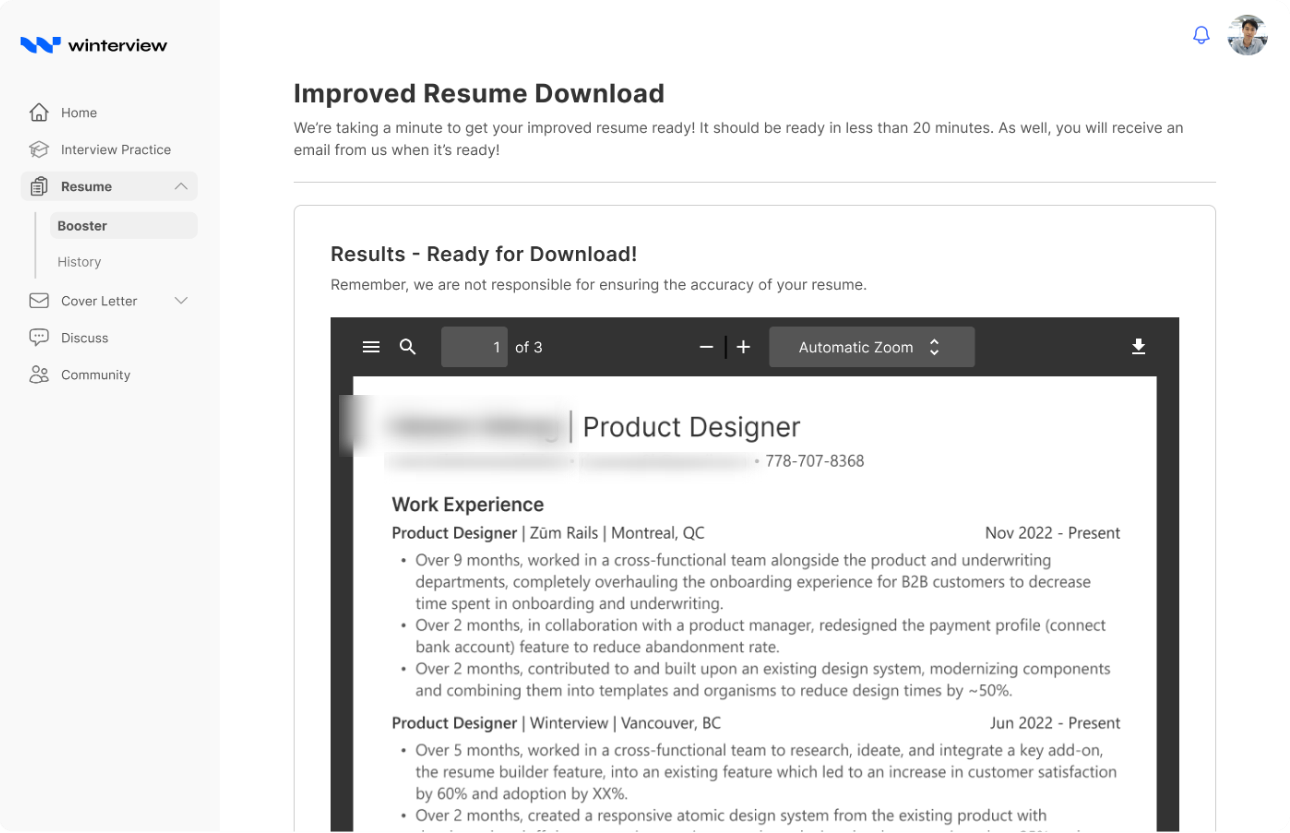
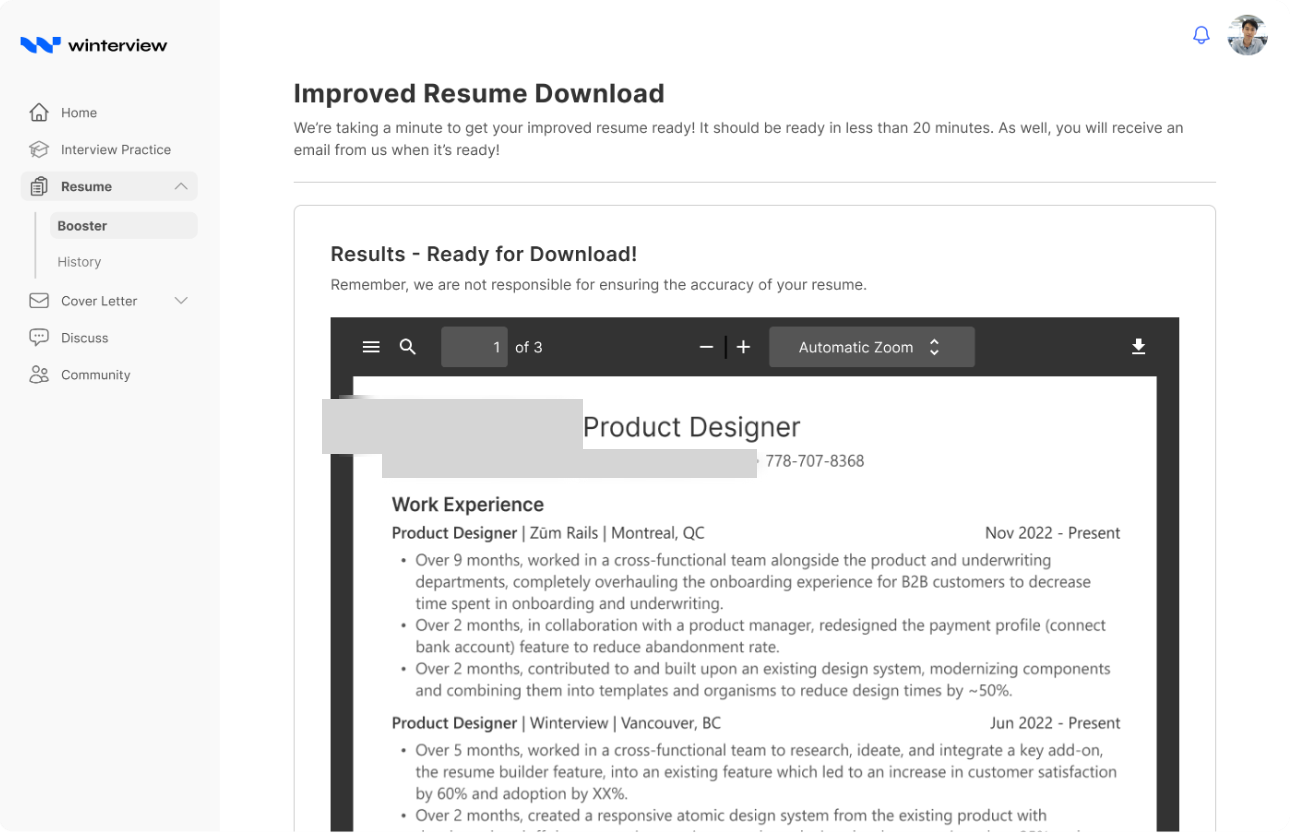
updates visual again

Changed region(s): [[0.2481, 0.4682, 0.5891, 0.593]]

diff --git a/assets/css/home.css b/assets/css/home.css
@@ -315,14 +315,46 @@
    same px gap reads as tight on one and cavernous on the other. */
 .work-flow-track img { width: 80cqw; height: 100%; flex: none; object-fit: contain; object-position: center; border-radius: 6px; }
 .work-flow-winterview .work-flow-track img { margin-right: 22px; border-radius: 9px; }
-/* Dyne's screens are portrait phones inside this landscape card, so
-   object-fit: contain (the shared default) always leaves visible backdrop on
-   either side to show the whole phone without cropping. Cover fills the
-   slide edge to edge instead, trading a shaved sliver off the top and bottom
-   of each phone for a screen that actually reads at a useful size. */
-.work-flow-dyne .work-flow-track img { margin-right: 9px; object-fit: cover; }
+/* Dyne's screens are portrait phones inside this landscape card. At the
+   shared 80cqw slide width, object-fit: contain renders each phone at only
+   ~23cqw (height-limited by its own aspect ratio), leaving so much empty
+   backdrop either side of it that the next/previous phone never reaches the
+   slide's edge to actually peek in. Sizing the slide to the phone's own
+   rendered width instead removes that dead space, so neighbouring screens
+   sit close enough to show a real sliver of themselves. */
+.work-flow-dyne .work-flow-track img { width: auto; margin-right: 9px; }
 .work-flow-winterview .work-flow-track { animation-name: workFlowStep3; animation-duration: 8s; }
 .work-flow-dyne .work-flow-track { animation-name: workFlowStep4; animation-duration: 7s; }
+
+/* Vignette: fades the peeking previous/next screen into the card's own tint at
+   either edge, so whichever screen is centered at a given moment reads as the
+   one in focus rather than several equally-weighted screens side by side. Pure
+   position, not animation state, so it holds up regardless of where the track
+   currently is. Extra stops ease the falloff (slow at first, faster through
+   the middle of the fade, slow again into transparent) instead of a flat
+   linear ramp, so the edge reads as a soft vignette rather than a hard line. */
+.work-flow-dyne::after,
+.work-flow-winterview::after {
+  content: ''; position: absolute; inset: 0; pointer-events: none; z-index: 1;
+}
+.work-flow-dyne::after {
+  background: linear-gradient(to right,
+    oklch(0.55 0.18 25) 0%, oklch(0.55 0.18 25 / 0.85) 3%,
+    oklch(0.55 0.18 25 / 0.45) 8%, oklch(0.55 0.18 25 / 0.12) 13%,
+    oklch(0.55 0.18 25 / 0) 19%,
+    oklch(0.55 0.18 25 / 0) 81%,
+    oklch(0.55 0.18 25 / 0.12) 87%, oklch(0.55 0.18 25 / 0.45) 92%,
+    oklch(0.55 0.18 25 / 0.85) 97%, oklch(0.55 0.18 25) 100%);
+}
+.work-flow-winterview::after {
+  background: linear-gradient(to right,
+    oklch(0.53 0.12 258) 0%, oklch(0.53 0.12 258 / 0.85) 3%,
+    oklch(0.53 0.12 258 / 0.45) 8%, oklch(0.53 0.12 258 / 0.12) 13%,
+    oklch(0.53 0.12 258 / 0) 19%,
+    oklch(0.53 0.12 258 / 0) 81%,
+    oklch(0.53 0.12 258 / 0.12) 87%, oklch(0.53 0.12 258 / 0.45) 92%,
+    oklch(0.53 0.12 258 / 0.85) 97%, oklch(0.53 0.12 258) 100%);
+}
 
 /* A literal blur filter read as a glitch, not polish - dropped. Smoothness
    comes from the curve instead: a gentle, front-loaded deceleration into each
@@ -344,18 +376,28 @@
   78%, 100% { transform: translateX(calc(-66.667% + 10cqw)); animation-timing-function: cubic-bezier(.22, .61, .36, 1); }
 }
 /* Dyne: same seamless-peek approach as Winterview, sized for 4 real screens.
-   Track is [date, location, coupon, invite, date, location, coupon] (7 items:
-   the natural 4-screen order, rotated one step so "location" lands on the
-   first held position, plus enough repeated screens at each end to give
-   every hold a real neighbour on both sides). Holds sit at sevenths of the
-   track; the last hold (index 5, "location" again) is pixel-identical to the
-   first, so the loop reset is invisible. */
+   Track is [date, location, coupon, invite] repeated 3 times (12 items).
+   Sizing each slide to the phone itself (rather than Winterview's fixed
+   80cqw) packs enough screens into the card that 3-4 are visible at once,
+   not just one neighbour peeking on either side - so a single repeat of the
+   4-screen cycle isn't enough buffer any more. Holding on the middle
+   repeat (indices 4-7: date, location, coupon, invite) leaves two full
+   repeats of real screens as buffer on each side, so every simultaneously
+   visible slot - however many that turns out to be at a given card width -
+   is always a real, correctly-ordered screen instead of running out and
+   popping in empty. Holds sit at twelfths of the track; the last hold
+   (index 8, "date" again) is pixel-identical to the first (index 4), so the
+   loop reset is invisible.
+   Centering offset is half the leftover space in the slide's own container
+   (100cqw - the phone's ~23cqw rendered width, halved) rather than Winterview's
+   10cqw, since these slides are sized to the phone itself instead of a fixed
+   80cqw. */
 @keyframes workFlowStep4 {
-  0%, 12%   { transform: translateX(calc(-14.286% + 10cqw)); }
-  20%, 32%  { transform: translateX(calc(-28.571% + 10cqw)); animation-timing-function: cubic-bezier(.22, .61, .36, 1); }
-  40%, 52%  { transform: translateX(calc(-42.857% + 10cqw)); animation-timing-function: cubic-bezier(.22, .61, .36, 1); }
-  60%, 72%  { transform: translateX(calc(-57.143% + 10cqw)); animation-timing-function: cubic-bezier(.22, .61, .36, 1); }
-  80%, 100% { transform: translateX(calc(-71.429% + 10cqw)); animation-timing-function: cubic-bezier(.22, .61, .36, 1); }
+  0%, 12%   { transform: translateX(calc(-33.333% + 38.5cqw)); }
+  20%, 32%  { transform: translateX(calc(-41.667% + 38.5cqw)); animation-timing-function: cubic-bezier(.22, .61, .36, 1); }
+  40%, 52%  { transform: translateX(calc(-50% + 38.5cqw)); animation-timing-function: cubic-bezier(.22, .61, .36, 1); }
+  60%, 72%  { transform: translateX(calc(-58.333% + 38.5cqw)); animation-timing-function: cubic-bezier(.22, .61, .36, 1); }
+  80%, 100% { transform: translateX(calc(-66.667% + 38.5cqw)); animation-timing-function: cubic-bezier(.22, .61, .36, 1); }
 }
 /* ---------- reveal, driven by scroll position ---------- */
 /* The base rule above animates on load, which means anything below the fold has

diff --git a/index.html b/index.html
@@ -118,12 +118,17 @@
         <div class="work-preview has-shot work-flow work-flow-dyne">
           <div class="work-flow-track">
             <img src="assets/media/dyne/dyne-meetup-date.png" width="445" height="965" alt="" aria-hidden="true" decoding="async">
+            <img src="assets/media/dyne/dyne-meetup-location.png" width="445" height="965" alt="" aria-hidden="true" decoding="async">
+            <img src="assets/media/dyne/dyne-meetup-coupon.png" width="445" height="965" alt="" aria-hidden="true" decoding="async">
+            <img src="assets/media/dyne/dyne-meetup-invite.png" width="445" height="965" alt="" aria-hidden="true" decoding="async">
+            <img src="assets/media/dyne/dyne-meetup-date.png" width="445" height="965" alt="" aria-hidden="true" decoding="async">
             <img src="assets/media/dyne/dyne-meetup-location.png" width="445" height="965" alt="Screens from Dyne's meetup creation flow: pick a location, add a coupon, invite friends, choose a date" decoding="async">
             <img src="assets/media/dyne/dyne-meetup-coupon.png" width="445" height="965" alt="" aria-hidden="true" decoding="async">
             <img src="assets/media/dyne/dyne-meetup-invite.png" width="445" height="965" alt="" aria-hidden="true" decoding="async">
             <img src="assets/media/dyne/dyne-meetup-date.png" width="445" height="965" alt="" aria-hidden="true" decoding="async">
             <img src="assets/media/dyne/dyne-meetup-location.png" width="445" height="965" alt="" aria-hidden="true" decoding="async">
             <img src="assets/media/dyne/dyne-meetup-coupon.png" width="445" height="965" alt="" aria-hidden="true" decoding="async">
+            <img src="assets/media/dyne/dyne-meetup-invite.png" width="445" height="965" alt="" aria-hidden="true" decoding="async">
           </div>
         </div>
         <h3 class="work-title">Meetup Creation</h3>
